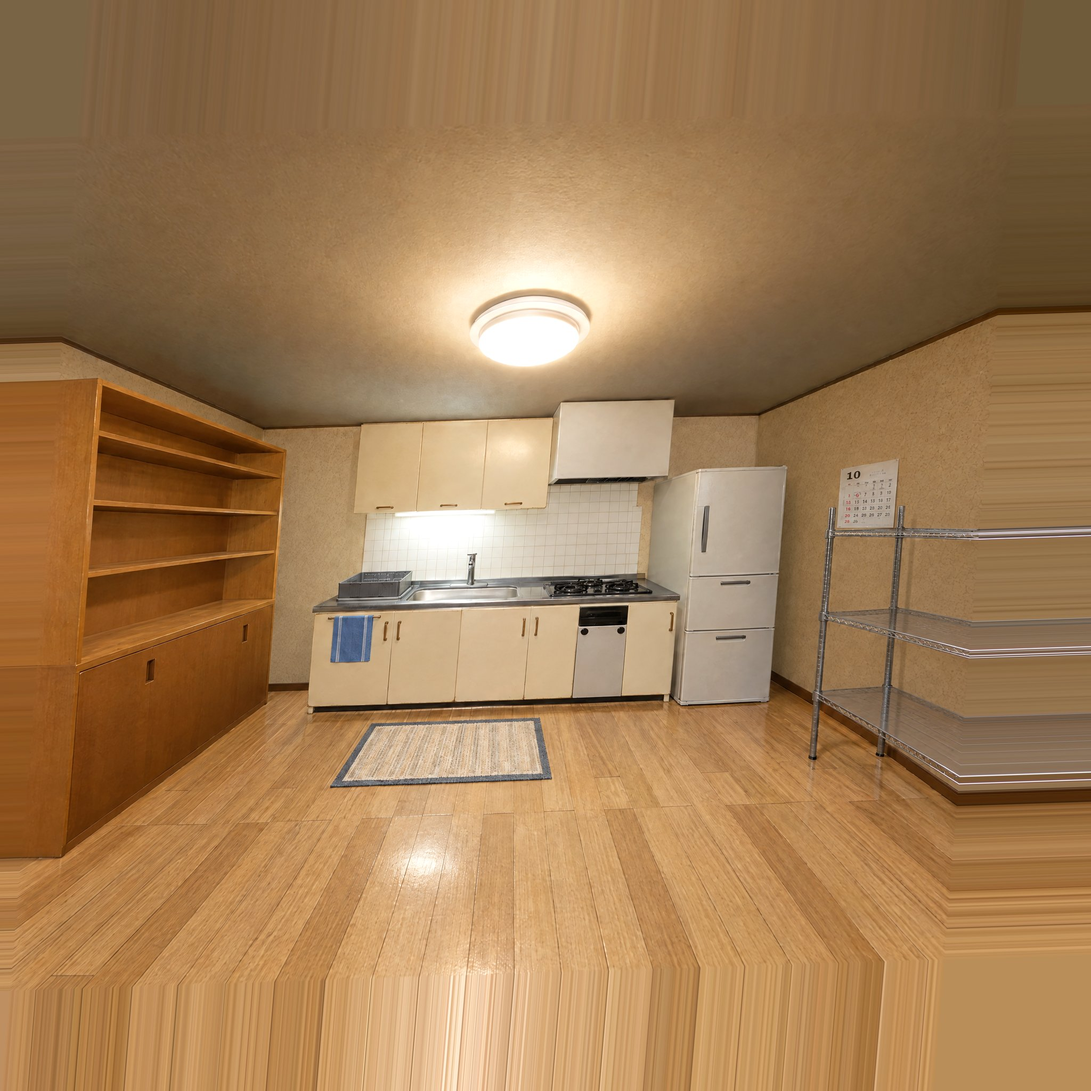
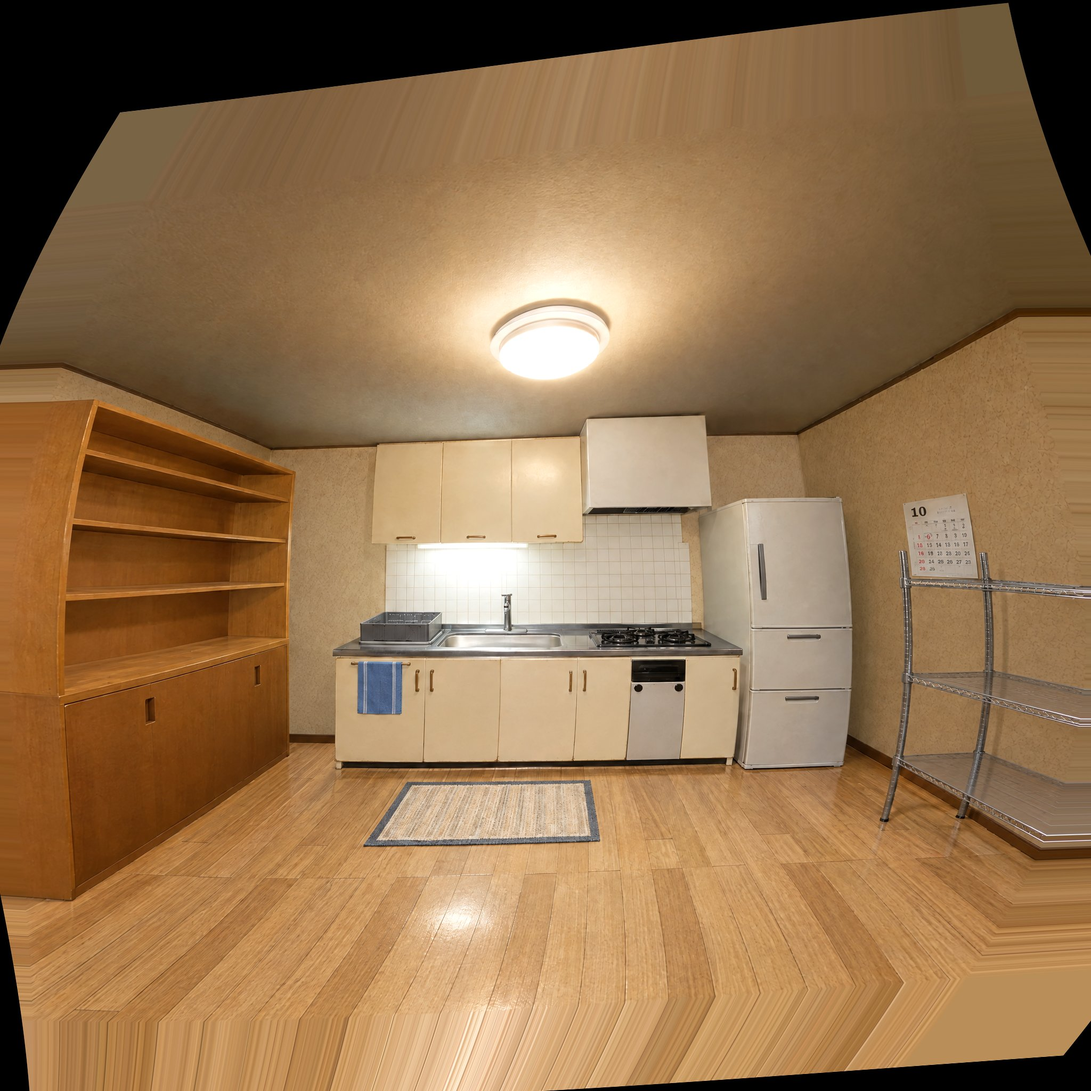
写真のキッチン：写真を部屋に合わせる補正を細かく（なめらかな変形）、入れ替えの塗り範囲を修正・拡大
Claude-Session: https://claude.ai/code/session_01JhgGe9eNHBNBAVoRH9Mu8c

diff --git a/www/js/world.js b/www/js/world.js
@@ -2,9 +2,9 @@
 import * as THREE from 'three';
 import * as CANNON from 'cannon-es';
 import { RoomEnvironment } from '../vendor/RoomEnvironment.js';
-import * as TX from './textures.js?v=202609291744';
-import { sfx } from './audio.js?v=202609291744';
-import { haptics } from './haptics.js?v=202609291744';
+import * as TX from './textures.js?v=202609291751';
+import { sfx } from './audio.js?v=202609291751';
+import { haptics } from './haptics.js?v=202609291751';
 
 const rand = (a, b) => a + Math.random() * (b - a);
 const clamp = (v, a, b) => Math.max(a, Math.min(b, v));
@@ -293,8 +293,8 @@ export class World {
       });
       // 中心から少し膨らませる
       const box = new THREE.Box3().setFromObject(root), c = box.getCenter(new THREE.Vector3());
-      const inflate = new THREE.Matrix4().makeTranslation(c.x, c.y, c.z).multiply(new THREE.Matrix4().makeScale(1.18, 1.12, 1.18)).multiply(new THREE.Matrix4().makeTranslation(-c.x, -c.y, -c.z));
-      patch.children.forEach(pm => pm.matrix.premultiply(inflate));
+      const inflate = new THREE.Matrix4().makeTranslation(c.x, c.y, c.z).multiply(new THREE.Matrix4().makeScale(1.32, 1.25, 1.32)).multiply(new THREE.Matrix4().makeTranslation(-c.x, -c.y, -c.z));
+      patch.children.forEach(pm => { pm.matrix.premultiply(inflate); pm.matrixWorldNeedsUpdate = true; });
       rec.photo.patch = patch;
       // 破片の色は写真のその場所の色に
       const col = this._photoColorAt(c);
@@ -307,11 +307,11 @@ export class World {
     if (this._patchMat && this._patchMat.uniforms.map.value === tex) return this._patchMat;
     this._patchMat = new THREE.ShaderMaterial({
       uniforms: { map: { value: tex } },
-      transparent: true, depthTest: false, depthWrite: false, side: THREE.DoubleSide,
+      transparent: false, depthTest: false, depthWrite: false, side: THREE.DoubleSide,
       vertexShader: `varying vec2 vUv; varying vec3 vN; varying vec3 vV;
         void main(){ vUv = uv; vec4 mv = modelViewMatrix * vec4(position,1.0); vN = normalMatrix * normal; vV = -mv.xyz; gl_Position = projectionMatrix * mv; }`,
       fragmentShader: `uniform sampler2D map; varying vec2 vUv; varying vec3 vN; varying vec3 vV;
-        void main(){ vec4 c = texture2D(map, vUv); float e = clamp(abs(dot(normalize(vN), normalize(vV))) * 2.5, 0.0, 1.0); gl_FragColor = vec4(c.rgb, e);
+        void main(){ vec4 c = texture2D(map, vUv); gl_FragColor = vec4(c.rgb, 1.0);
         #include <colorspace_fragment>
         }`
     });

diff --git a/www/js/main.js b/www/js/main.js
@@ -1,7 +1,7 @@
-import { World } from './world.js?v=202609291744';
-import { SwingDetector } from './motion.js?v=202609291744';
-import { sfx } from './audio.js?v=202609291744';
-import { haptics, hapticSettings } from './haptics.js?v=202609291744';
+import { World } from './world.js?v=202609291751';
+import { SwingDetector } from './motion.js?v=202609291751';
+import { sfx } from './audio.js?v=202609291751';
+import { haptics, hapticSettings } from './haptics.js?v=202609291751';
 
 const $ = (s) => document.querySelector(s);
 const D2R = Math.PI / 180;

diff --git a/www/index.html b/www/index.html
@@ -185,6 +185,6 @@ h2{margin:0;font-family:var(--f-display);font-weight:400;font-size:26px}
 <div id="fade"></div>
 <div id="rotate">縦向きで遊んでください</div>
 
-<script type="module" src="./js/main.js?v=202609291744"></script>
+<script type="module" src="./js/main.js?v=202609291751"></script>
 </body>
 </html>
